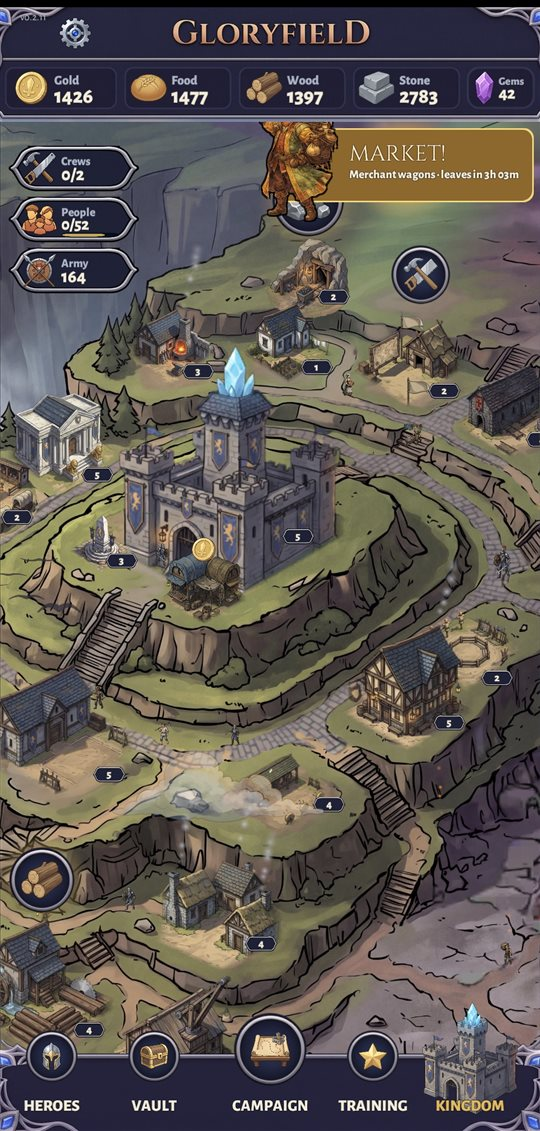
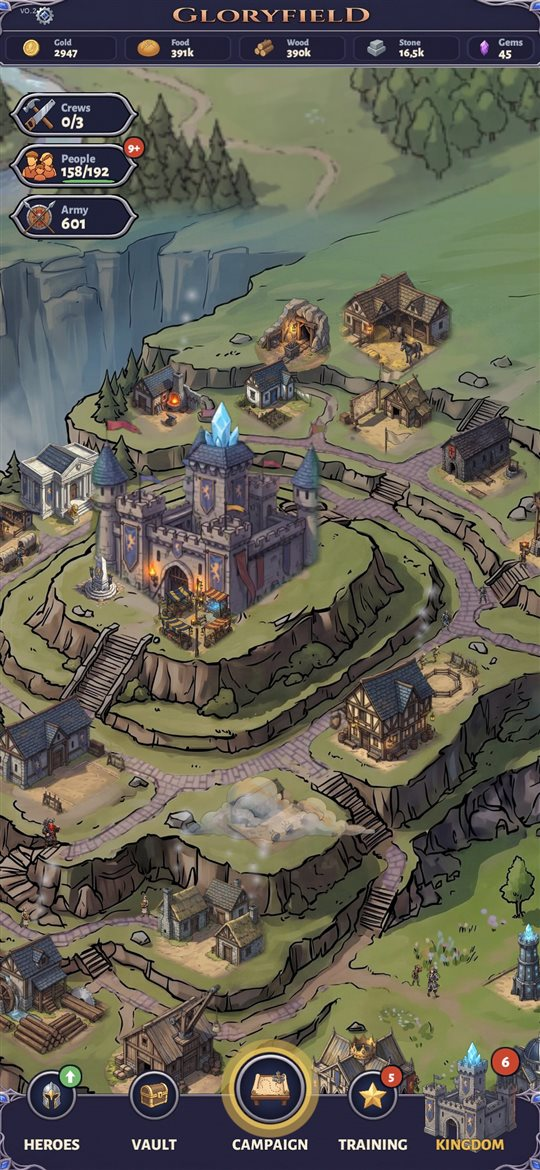
Gloryfield page: real game screenshots (the kingdom and the heroes) instead of phone photos; the studio card from the kingdom

diff --git a/gloryfield/index.html b/gloryfield/index.html
@@ -56,10 +56,10 @@
   <section class="stack" aria-labelledby="shots-title">
     <p class="label" id="shots-title">Screenshots</p>
     <div class="shots" role="list">
-      <figure role="listitem"><img src="/gloryfield/shots/kingdom.jpg" alt="The painted kingdom on its cliffs: the castle, the forge, the mine and the market wagon" width="540" height="1131" loading="lazy"><figcaption>Your kingdom</figcaption></figure>
+      <figure role="listitem"><img src="/gloryfield/shots/kingdom.jpg" alt="The painted kingdom on its cliffs: the castle, the forge, the mine, the stables and the tavern" width="540" height="1170" loading="lazy"><figcaption>Your kingdom</figcaption></figure>
       <figure role="listitem"><img src="/gloryfield/shots/campaign.jpg" alt="The Mist Marsh on the campaign map, its battles as medallions with stars" width="540" height="1170" loading="lazy"><figcaption>The campaign</figcaption></figure>
       <figure role="listitem"><img src="/gloryfield/shots/battle.jpg" alt="A battle in the marsh: your legions march on the Ash Host" width="540" height="1170" loading="lazy"><figcaption>The battle</figcaption></figure>
-      <figure role="listitem"><img src="/gloryfield/shots/hero.jpg" alt="Aldric in the Hero Hall with his attack, defense, health and power" width="540" height="1131" loading="lazy"><figcaption>Your heroes</figcaption></figure>
+      <figure role="listitem"><img src="/gloryfield/shots/heroes.jpg" alt="The five heroes in the Hall of Heroes: Aldric, Thorgrim, Fenna, Saran and Ylva" width="540" height="1170" loading="lazy"><figcaption>Your heroes</figcaption></figure>
       <figure role="listitem"><img src="/gloryfield/shots/market.jpg" alt="The travelling market on the town square, with its stalls and townsfolk" width="540" height="1170" loading="lazy"><figcaption>The market</figcaption></figure>
       <figure role="listitem"><img src="/gloryfield/shots/world.jpg" alt="The world map: Whisperwood, Frostfang Reach, the Skyreach Isles and the Heart of Ash" width="540" height="1170" loading="lazy"><figcaption>The world</figcaption></figure>
       <figure role="listitem"><img src="/gloryfield/shots/training.jpg" alt="The Training tab: hero drills, the rune chest and the smithy" width="540" height="1170" loading="lazy"><figcaption>Training</figcaption></figure>
@@ -81,7 +81,7 @@
       <h2 id="f-heroes">Five heroes, each their own way</h2>
       <p>Each hero leads troops into battle and fights in their own way. Level them up, promote them, unlock their six skills, and dress them in gear from grey to gold. Gear grows by levelling it with shards; the best colours are rare and earned.</p>
     </div>
-    <img src="/gloryfield/shots/hero.jpg" alt="" width="540" height="1131" loading="lazy">
+    <img src="/gloryfield/shots/heroes.jpg" alt="" width="540" height="1170" loading="lazy">
   </section>
 
   <section class="feature" aria-labelledby="f-kingdom">
@@ -90,7 +90,7 @@
       <h2 id="f-kingdom">Rebuild what was lost</h2>
       <p>Thirty buildings on a painted cliff: farms, mills and mines, barracks and stables, a tavern, a forge and a watchtower. Put your people to work, keep them fed and happy, pass decrees in the Main Hall, and train the army that will carry your banners.</p>
     </div>
-    <img src="/gloryfield/shots/kingdom.jpg" alt="" width="540" height="1131" loading="lazy">
+    <img src="/gloryfield/shots/kingdom.jpg" alt="" width="540" height="1170" loading="lazy">
   </section>
 
   <section class="feature flip" aria-labelledby="f-ash">
